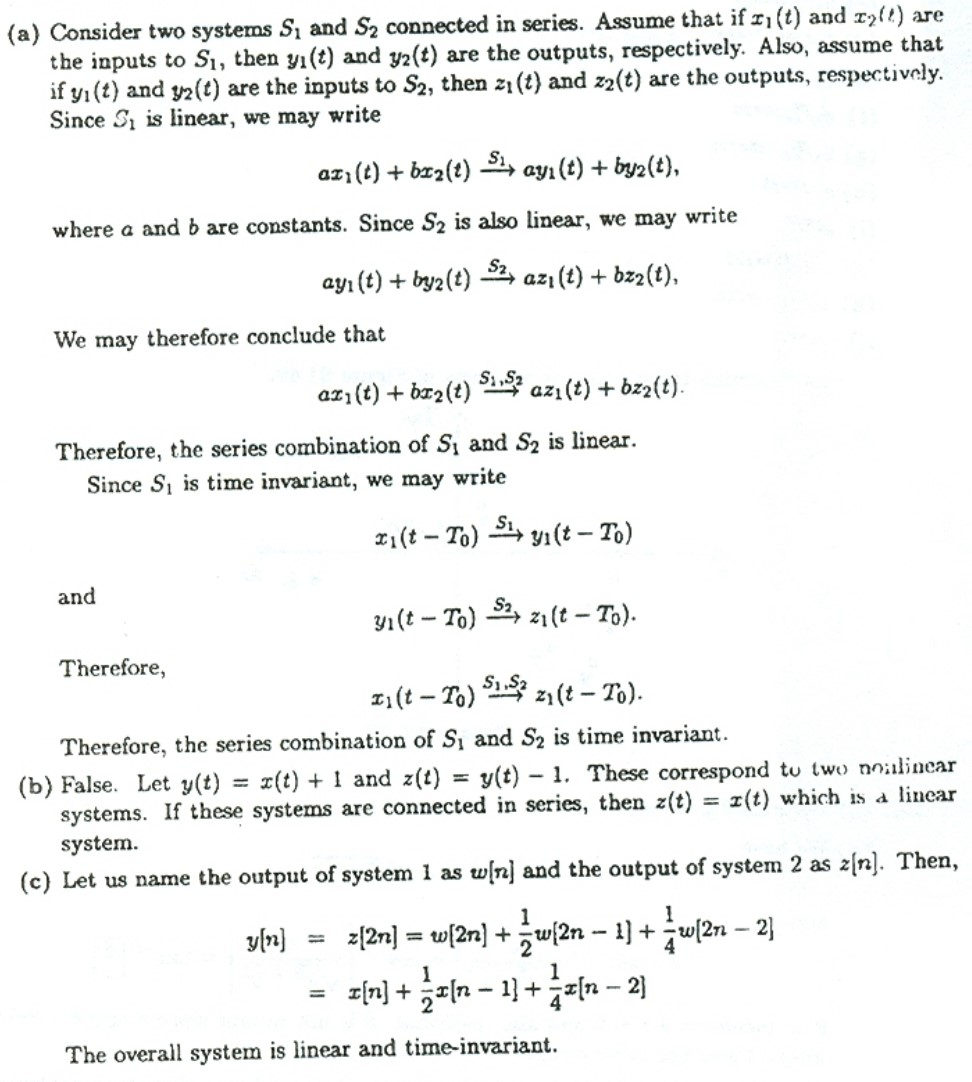
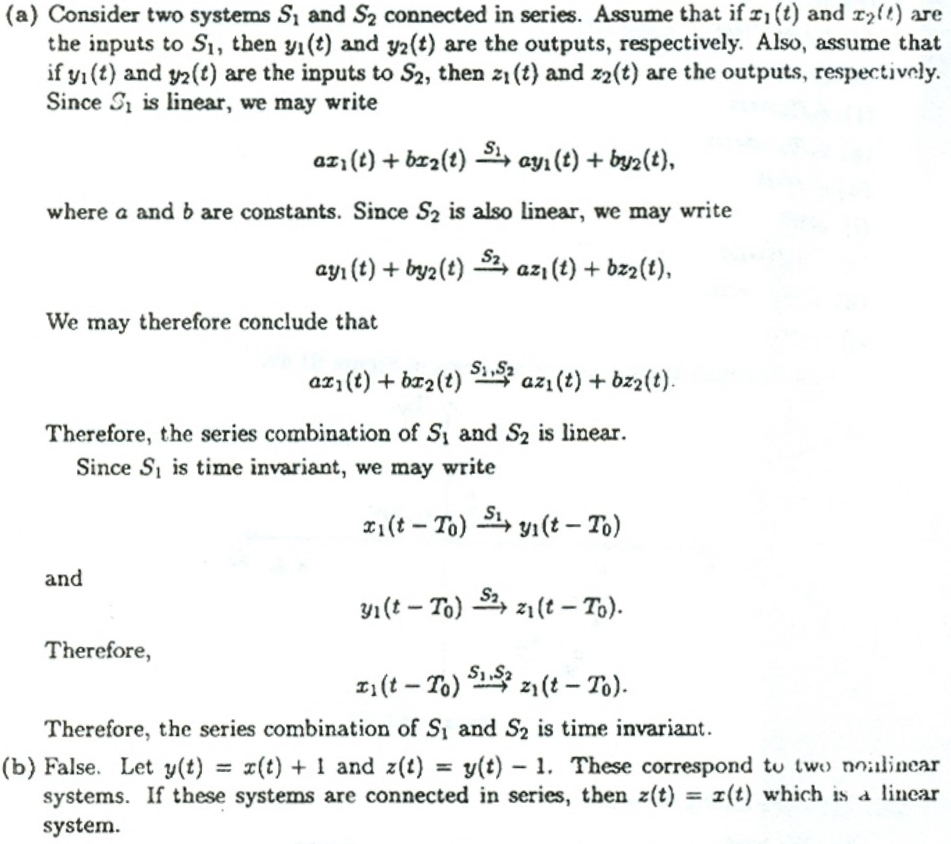
content: fix reference answer 1.42

Changed region(s): [[0.0, 0.0, 1.0, 1.0]]

diff --git a/doc/conf.py b/doc/conf.py
@@ -22,7 +22,7 @@ author = 'X. Zhao'
 copyright = 'CC BY-NC-SA 4.0'
 
 # The full version, including alpha/beta/rc tags
-release = '0.1.3'
+release = '0.1.4'
 
 
 # -- General configuration ---------------------------------------------------

diff --git a/doc/answer/chapter1.rst b/doc/answer/chapter1.rst
@@ -4,6 +4,8 @@
 
 .. note:: 施工中...
 
+  #. 装订作业时避免盖住字迹
+
 1.8
   .. image:: assets/1-8.jpg
 
@@ -59,6 +61,8 @@
   .. image:: assets/1-36.jpg
   .. image:: assets/1-36a.jpg
 
+  .. warning:: （b，c）
+
 1.38
   .. image:: assets/1-38.jpg
   .. image:: assets/1-38-2.jpg
@@ -85,10 +89,23 @@
   .. image:: assets/1-42-2.jpg
   .. image:: assets/1-42a.jpg
 
+  \(c\) Let us name the output of system 1 as :math:`w[n]` and the output of system 2 as :math:`z[n]`. Then,
+
+  .. math::
+
+    \begin{align}
+    y[n] &= z[2n] = w[2n] + \frac{1}{2}w[2n-1] + \frac{1}{4}w[2n-2] \\
+    &= x[n] + \frac{1}{4}x[n-1]
+    \end{align}
+
+  The system is linear and time-invariant.
+
 1.27 (b, c)
   .. image:: assets/1-27.jpg
   .. image:: assets/1-27-2.jpg
   .. image:: assets/1-27a.jpg
+
+  .. note:: 无记忆系统的输出仅与当前输入有关；若输出依赖于未来的输入，系统亦是有记忆的。
 
 1.28 (d, g)
   .. image:: assets/1-28.jpg
